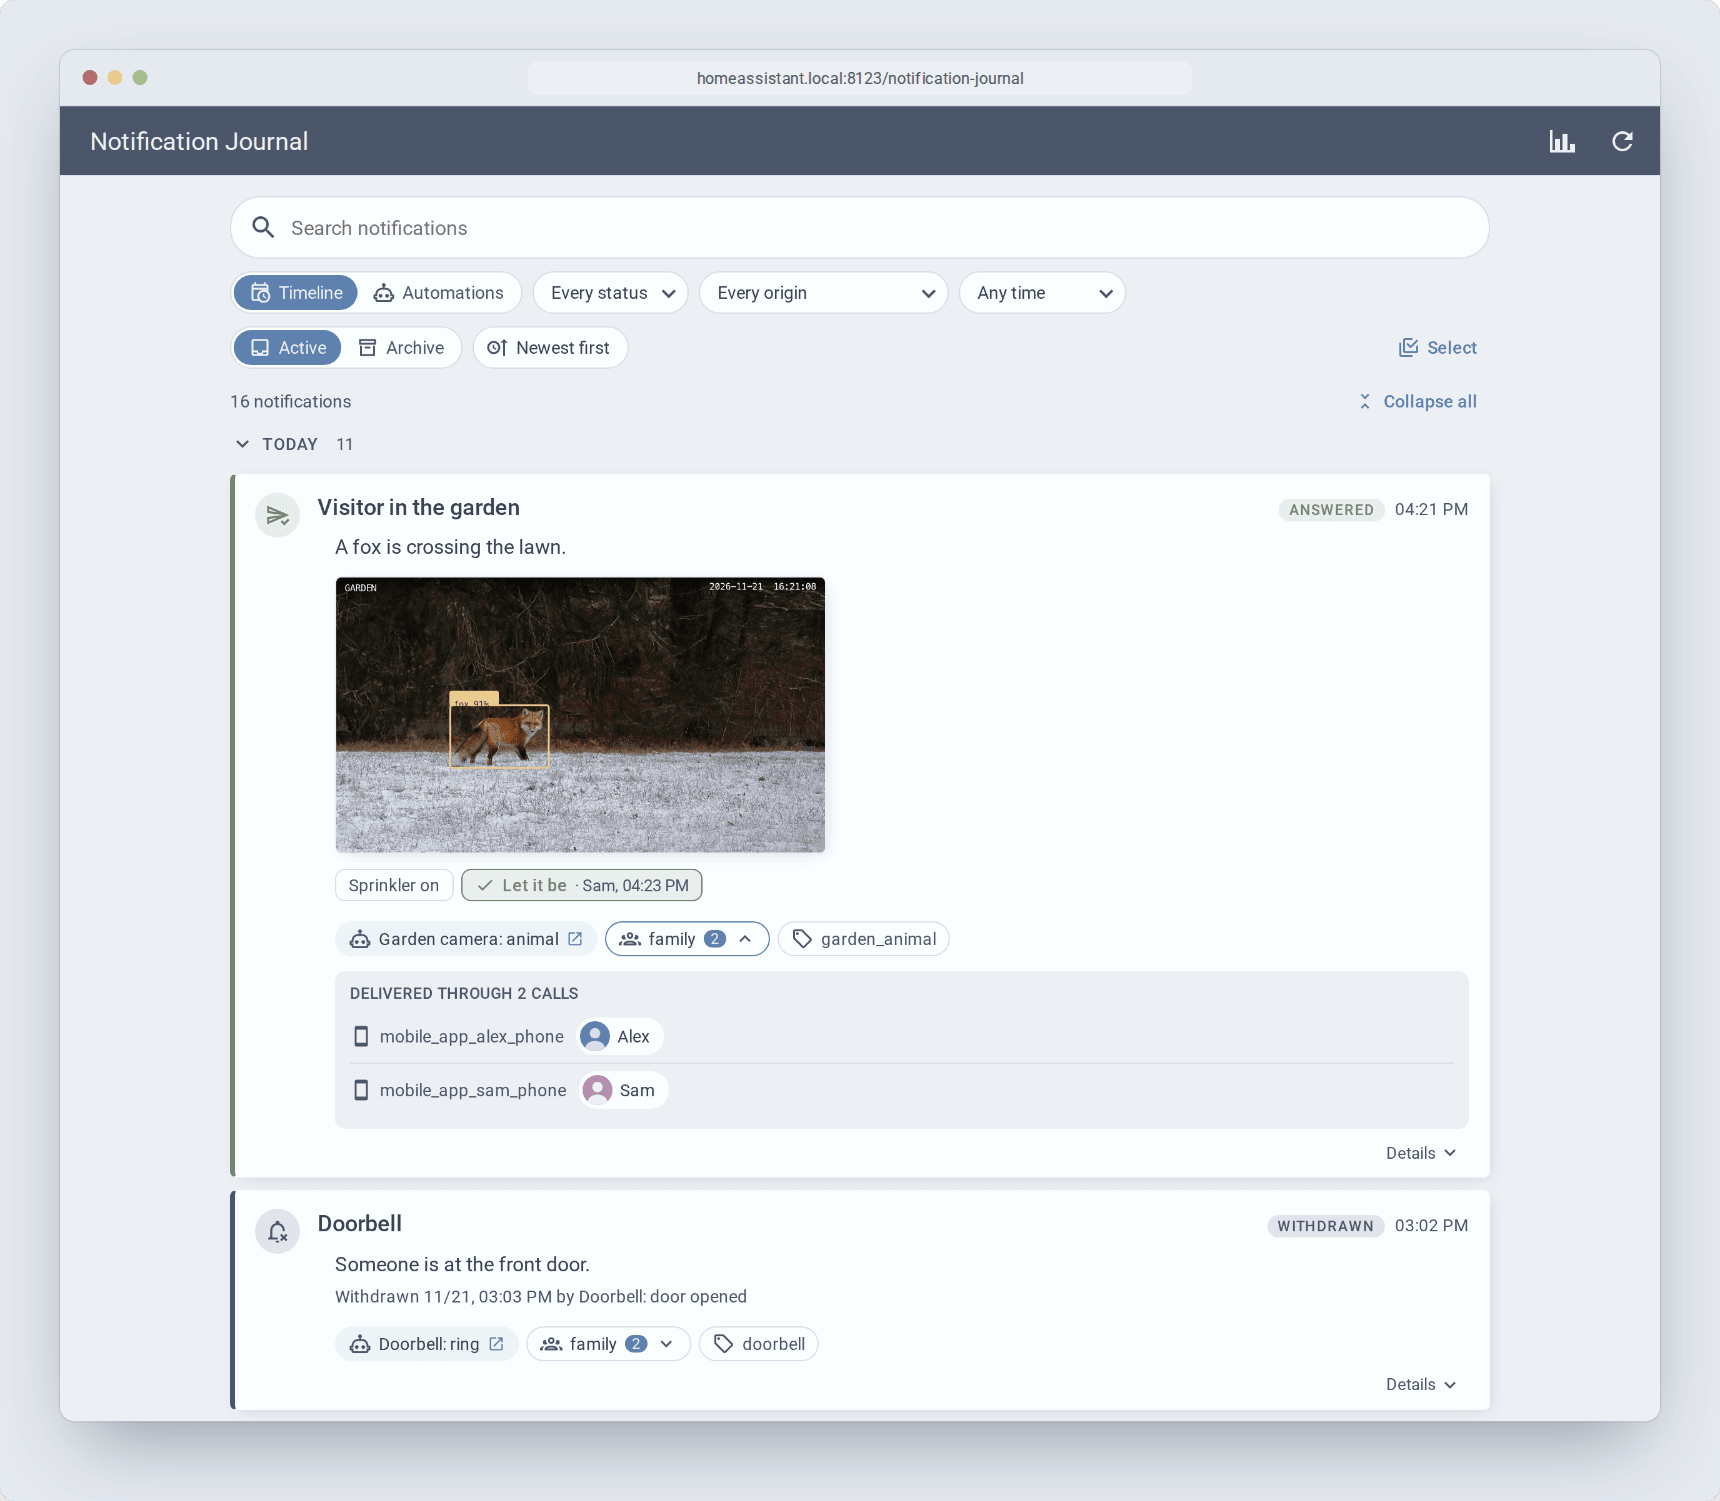
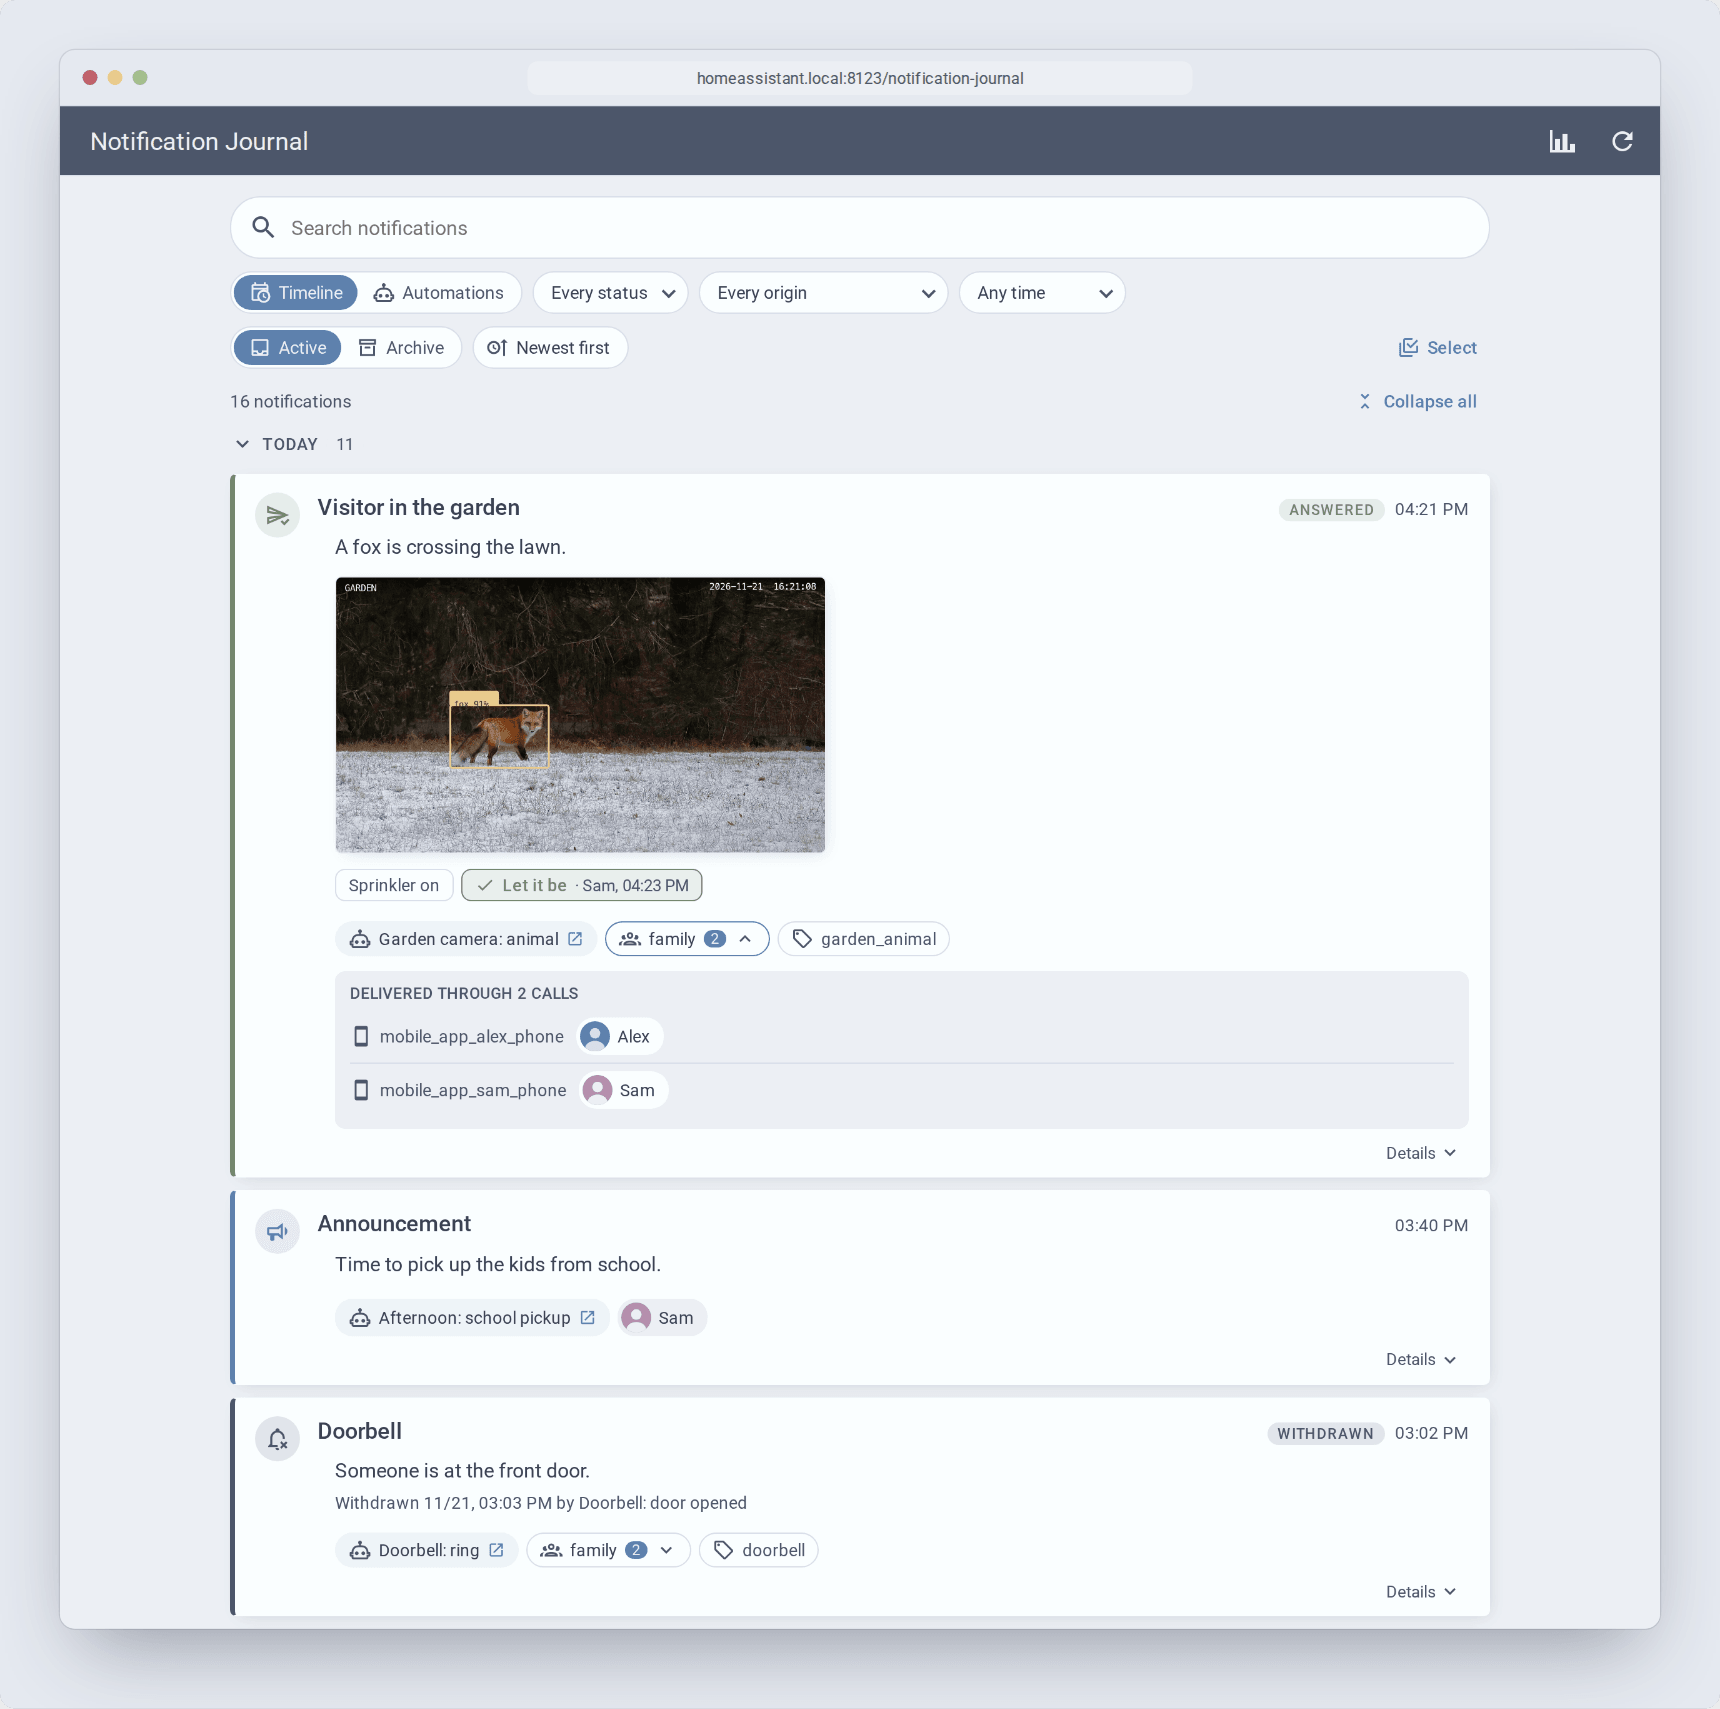
docs(screenshots): show a spoken notification
The made-up spoken notification moves into the visible part of the timeline, which the opening picture and the social preview show too.

diff --git a/scripts/screenshots/readme-data.js b/scripts/screenshots/readme-data.js
@@ -37,6 +37,7 @@
       data: { data: { tag: "garden_animal", image: "/garden-fox.jpg", actions: [{ action: "SPRINKLER_ON", title: "Sprinkler on" }, { action: "LET_IT_BE", title: "Let it be" }] } },
       answers: [{ action: "LET_IT_BE", time: at(0, 16, 23), user_id: "user-sam", reply_text: null }],
     },
+    { ...base, ...toSam, id: "r16", time: at(0, 15, 40), source: "notify", title: null, message: "TTS", origin: automation("school_pickup", "Afternoon: school pickup"), data: { data: { tts_text: "Time to pick up the kids from school.", media_stream: "alarm_stream" } } },
     { ...base, ...family, id: "r15", time: at(0, 15, 2), source: "notify", channel: "notify.family", title: "Doorbell", message: "Someone is at the front door.", origin: automation("doorbell_ring", "Doorbell: ring"), data: { data: { tag: "doorbell" } }, status: "withdrawn", status_time: at(0, 15, 3), status_by: automation("doorbell_door_opened", "Doorbell: door opened") },
     {
       ...base, ...toAlex, id: "r2", time: at(0, 13, 24), source: "notify",
@@ -48,7 +49,6 @@
     { ...base, ...toAlex, id: "r5", time: at(0, 11, 47), source: "notify", title: "Front door", message: "Unlocked for the parcel service.", origin: byHand("user-sam"), trace_path: null },
     { ...base, ...toAlex, id: "r6", time: at(0, 10, 15), source: "notify", title: "Garage", message: "The garage door has been open for 15 minutes.", origin: automation("garage_open_too_long", "Garage: open too long"), data: { data: { actions: [{ action: "CLOSE_GARAGE", title: "Close" }, { action: "LEAVE_GARAGE", title: "Leave open" }] } }, answers: [{ action: "CLOSE_GARAGE", time: at(0, 10, 16), user_id: "user-alex", reply_text: null }] },
     { ...base, ...toSam, id: "r7", time: at(0, 9, 5), source: "notify", title: "Battery low", message: "Hallway motion sensor: 12 %.", origin: integration("battery_watch", "Battery Watch"), trace_path: null },
-    { ...base, ...toSam, id: "r16", time: at(0, 8, 15), source: "notify", title: null, message: "TTS", origin: automation("school_reminder", "Morning: leave for school"), data: { data: { tts_text: "Time to leave for school.", media_stream: "alarm_stream" } } },
     { ...base, ...toSam, id: "r8", time: at(0, 7, 30), source: "notify", status: "failed", error: "Error sending notification to Sam's phone", title: "Weather", message: "Rain from 11:00 – the skylight is still open.", origin: automation("rain_warning", "Weather: rain warning") },
     { ...base, id: "r9", time: at(0, 3, 12), source: "persistent_notification", channel: "persistent_notification", title: "Login attempt failed", message: "Login attempt or request with invalid authentication from 192.168.1.23.", recipients: [everyone], origin: system, trace_path: null, source_ref: "http-login", status: "dismissed", status_time: at(0, 8, 2), status_by: byHand("user-alex") },
     { ...base, ...family, id: "r10", time: at(-1, 22, 30), source: "notify", channel: "notify.family", title: "Good night", message: "All windows are closed and the alarm is armed.", origin: { kind: "script", entity_id: "script.good_night", name: "Good night", trace_key: "script.good_night", run_id: "r10", user_id: null } },

diff --git a/README.md b/README.md
@@ -123,7 +123,7 @@ Made-up data in the [Nordic theme](https://github.com/coltondick/nordic-theme-ma
 
 ### Timeline
 
-Every day with its notifications; a notification shows its picture, the buttons and who tapped them, and whom a group reached.
+Every day with its notifications; a notification shows its picture, the buttons and who tapped them, and whom a group reached. Below it, what a phone spoke aloud, and a notification withdrawn from the phones by its tag.
 
 <picture>
   <source media="(prefers-color-scheme: dark)" srcset="docs/screenshots/timeline-nordic-dark.png">
